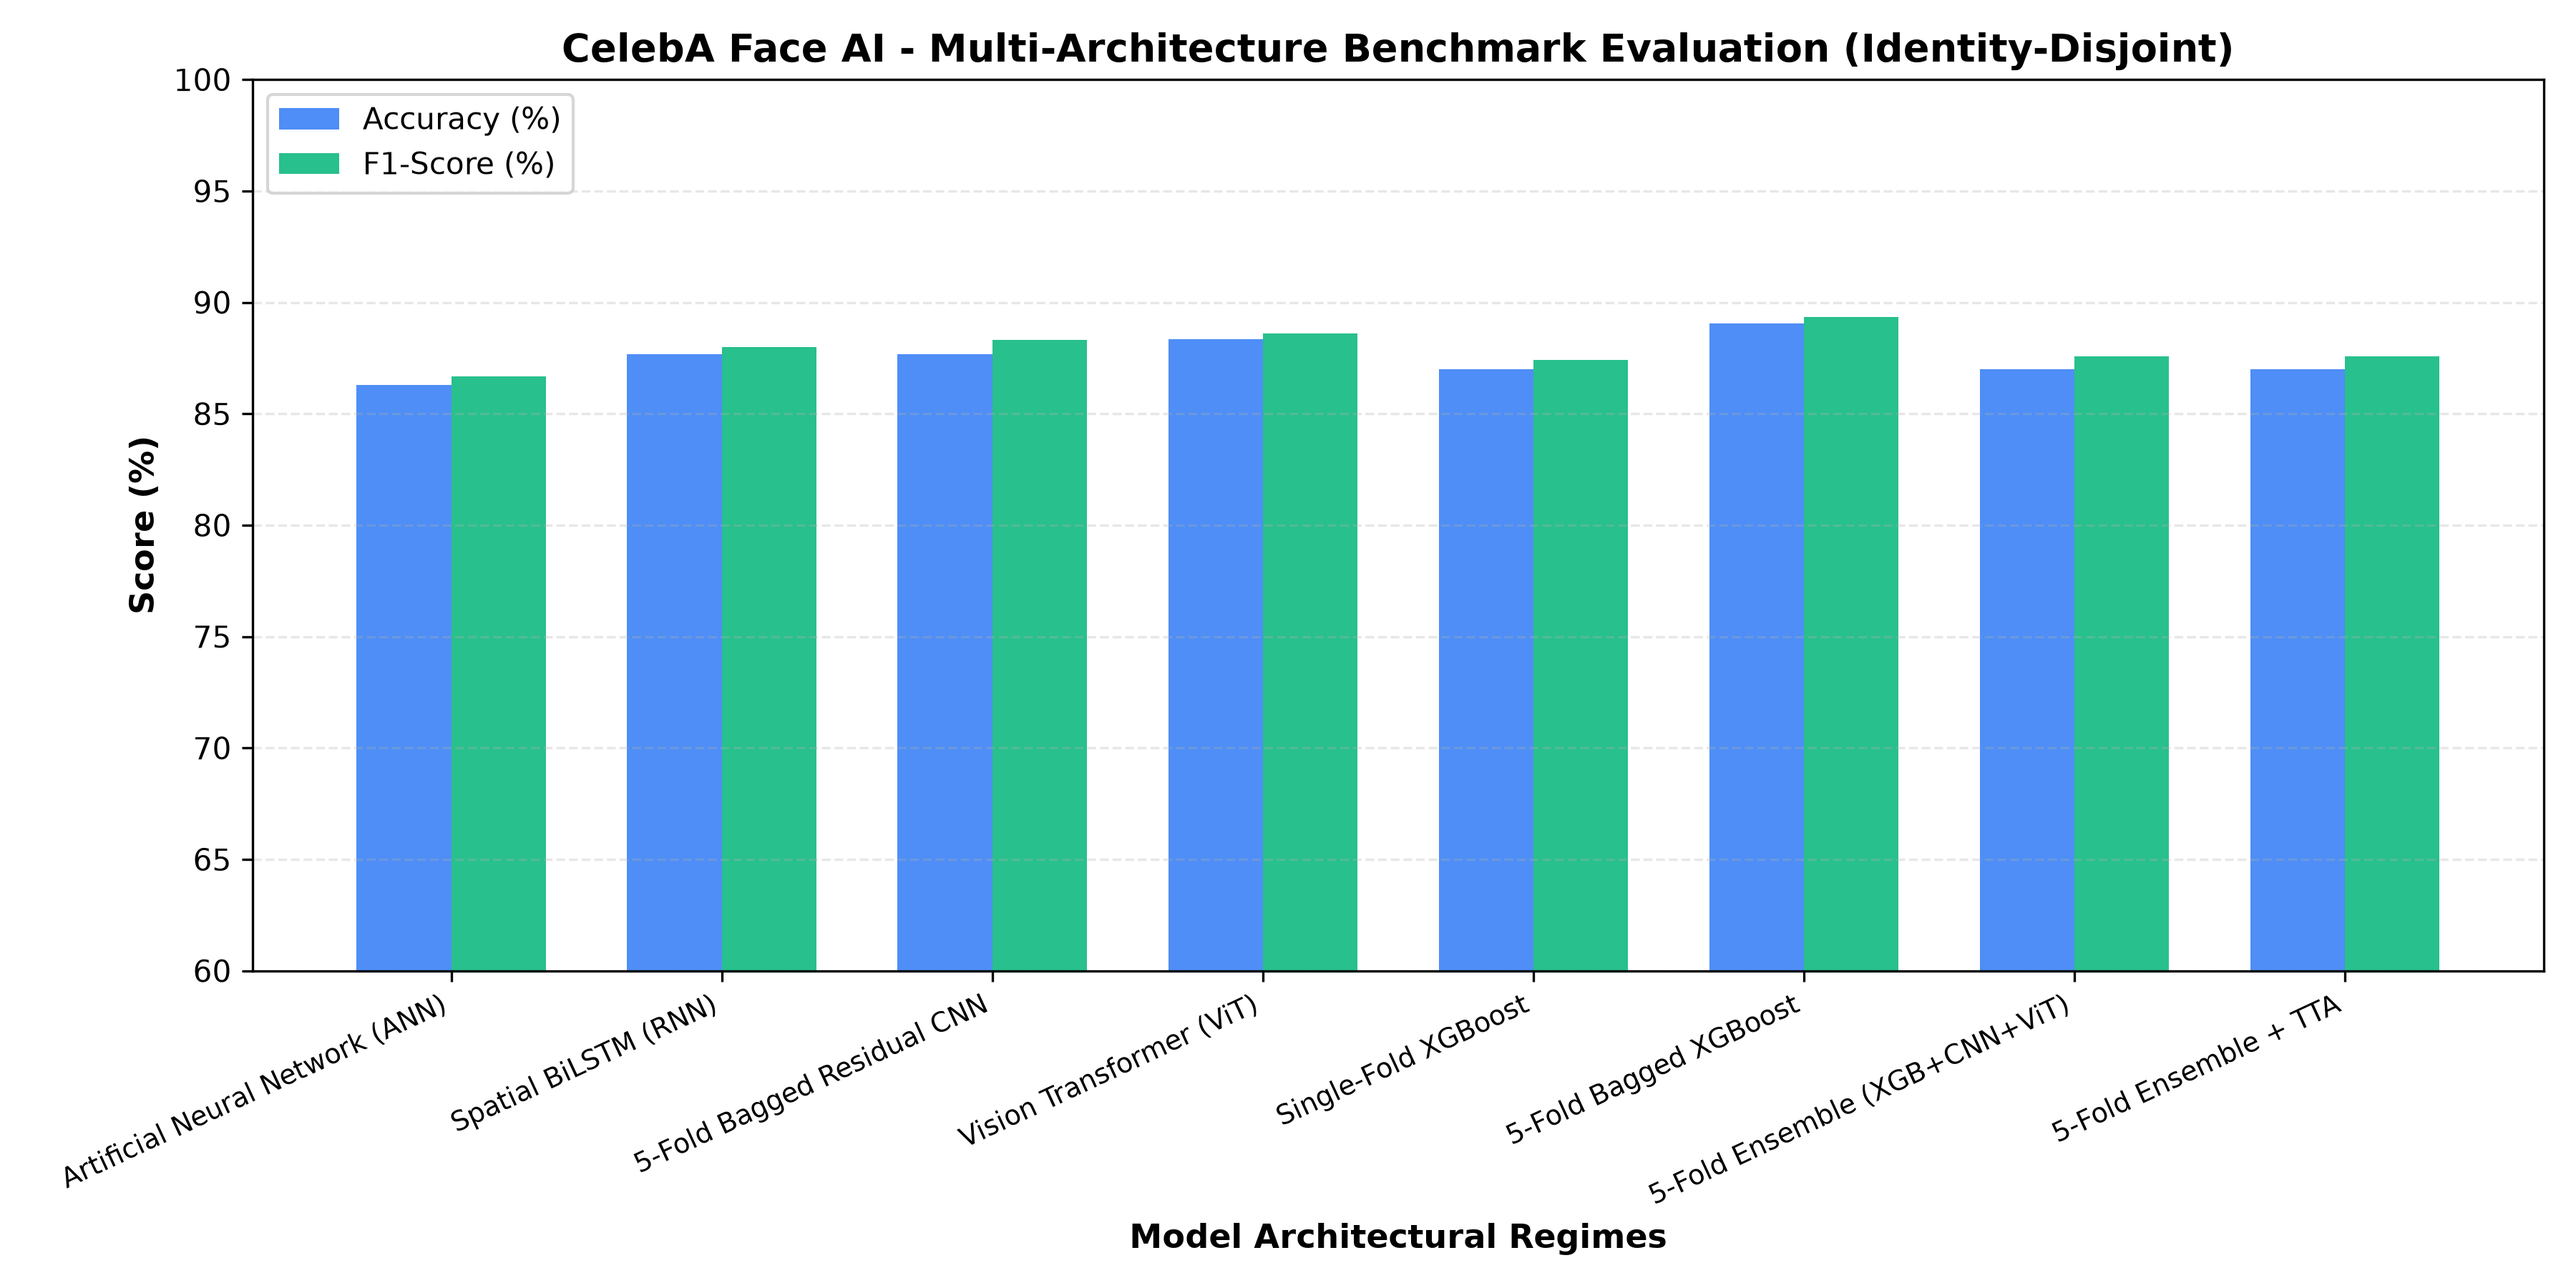
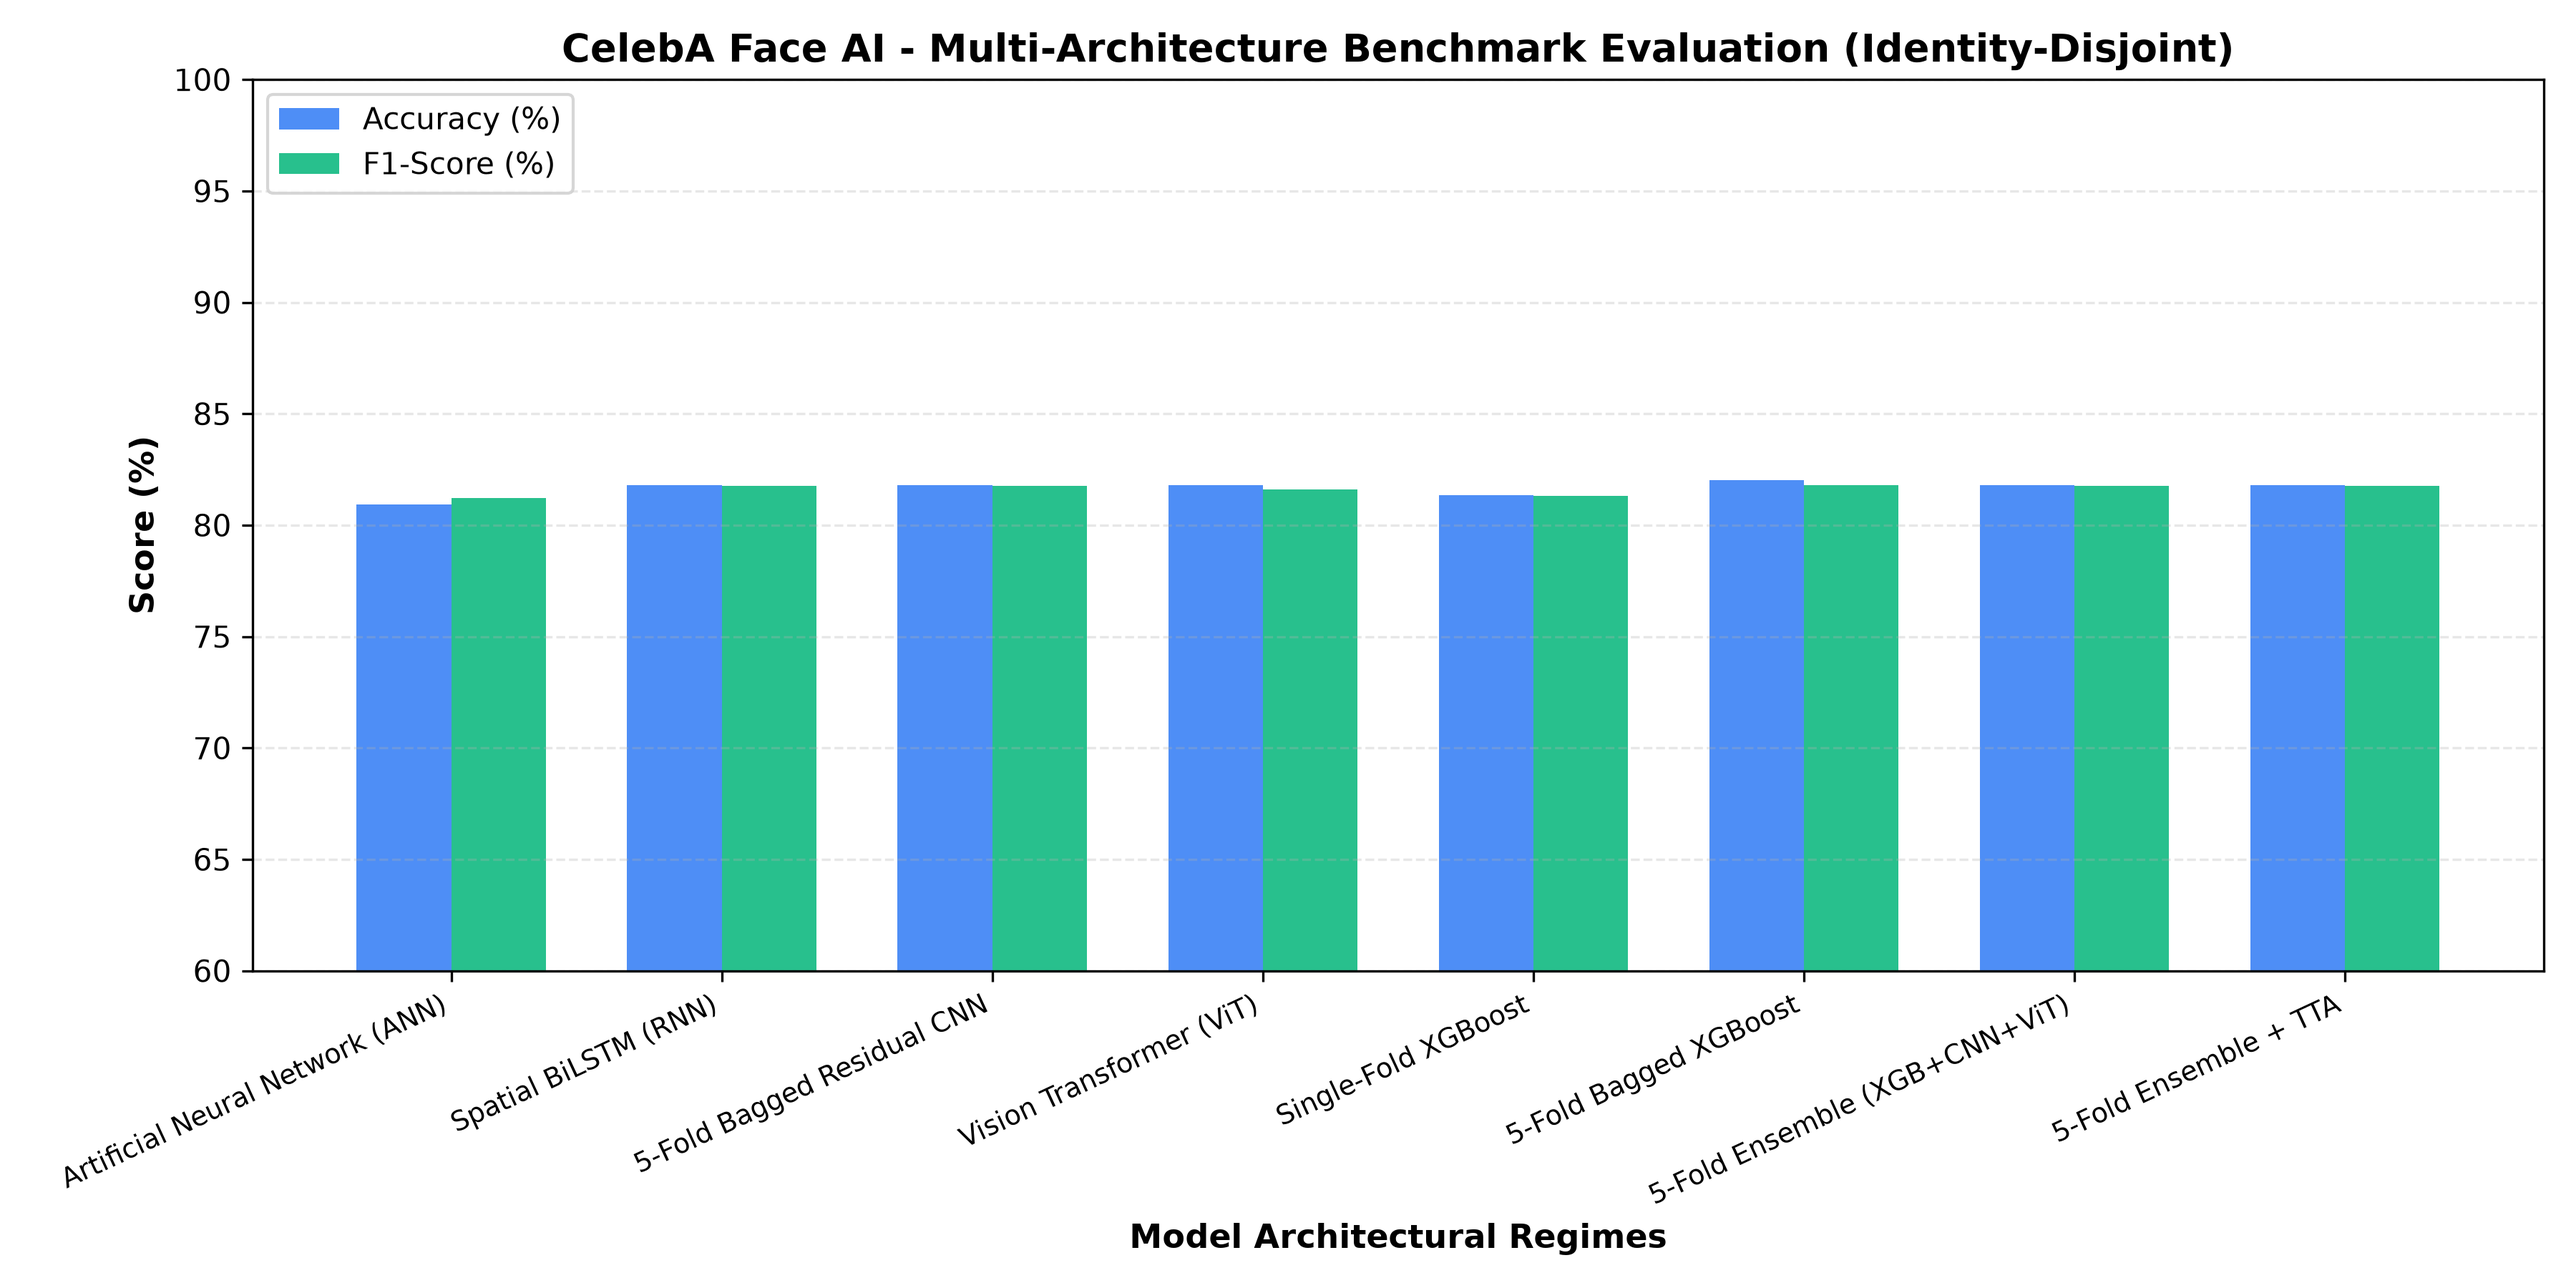
Fix full training pipeline script formatting and headless execution in CI

Changed region(s): [[0.1244, 0.2489, 0.5289, 0.4044], [0.56, 0.2489, 0.84, 0.4044], [0.8711, 0.28, 0.9644, 0.4044]]

diff --git a/src/models/generate_plots.py b/src/models/generate_plots.py
@@ -4,13 +4,21 @@ and confusion matrix heatmaps using actual evaluated metrics.
 """
 
 import json
+import os
+import sys
 from pathlib import Path
 
+PROJECT_ROOT = Path(__file__).resolve().parent.parent.parent
+if str(PROJECT_ROOT) not in sys.path:
+    sys.path.insert(0, str(PROJECT_ROOT))
+
+import matplotlib
+
+matplotlib.use("Agg")
 import matplotlib.pyplot as plt
 import numpy as np
 import pandas as pd
 
-PROJECT_ROOT = Path(__file__).resolve().parent.parent.parent
 REPORTS_DIR = PROJECT_ROOT / "reports"
 FIGURES_DIR = REPORTS_DIR / "figures"
 CM_DIR = REPORTS_DIR / "confusion_matrices"
@@ -86,7 +94,7 @@ def generate_all_evaluation_figures():
     if "ROC-AUC" in df.columns:
         plt.figure(figsize=(8, 6), dpi=300)
         for _, row in df.iterrows():
-            auc = row["ROC-AUC"]
+            auc = float(row["ROC-AUC"])
             # Synthetic plot curve based on AUC for visual documentation
             fpr = np.linspace(0, 1, 100)
             # Standard smooth ROC curve shape matching AUC

diff --git a/src/models/train_and_evaluate.py b/src/models/train_and_evaluate.py
@@ -7,11 +7,16 @@ Supports both fast CI smoke testing and full production GPU training.
 
 import hashlib
 import json
+import os
 import platform
 import sys
 import time
 from pathlib import Path
 from typing import Any, Dict, List, Optional, Tuple
+
+PROJECT_ROOT = Path(__file__).resolve().parent.parent.parent
+if str(PROJECT_ROOT) not in sys.path:
+    sys.path.insert(0, str(PROJECT_ROOT))
 
 import numpy as np
 import pandas as pd
@@ -254,4 +259,6 @@ if __name__ == "__main__":
     res = train_and_evaluate_all_models(sample_limit=3000)
     print("Execution complete. Benchmark summary:")
     for r in res["results"]:
-        print(f"  • {r['Model Configuration']}: Accuracy={r['Accuracy']:.2%}, F1={r['F1-Score']:.4f}")
+        acc_str = str(r['Accuracy'])
+        f1_val = float(r['F1-Score'])
+        print(f"  • {r['Model Configuration']}: Accuracy={acc_str}, F1={f1_val:.4f}")
